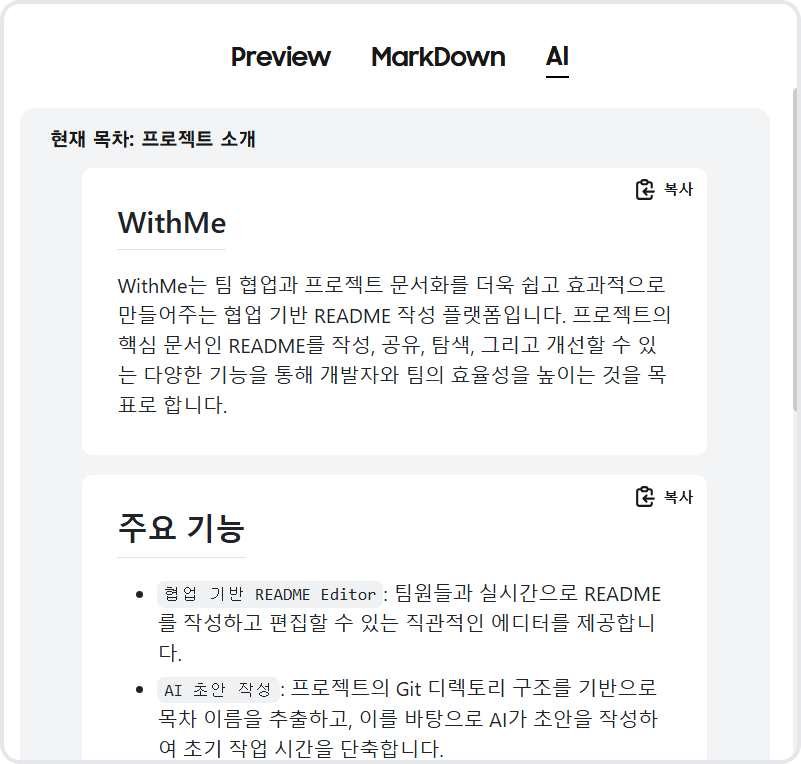
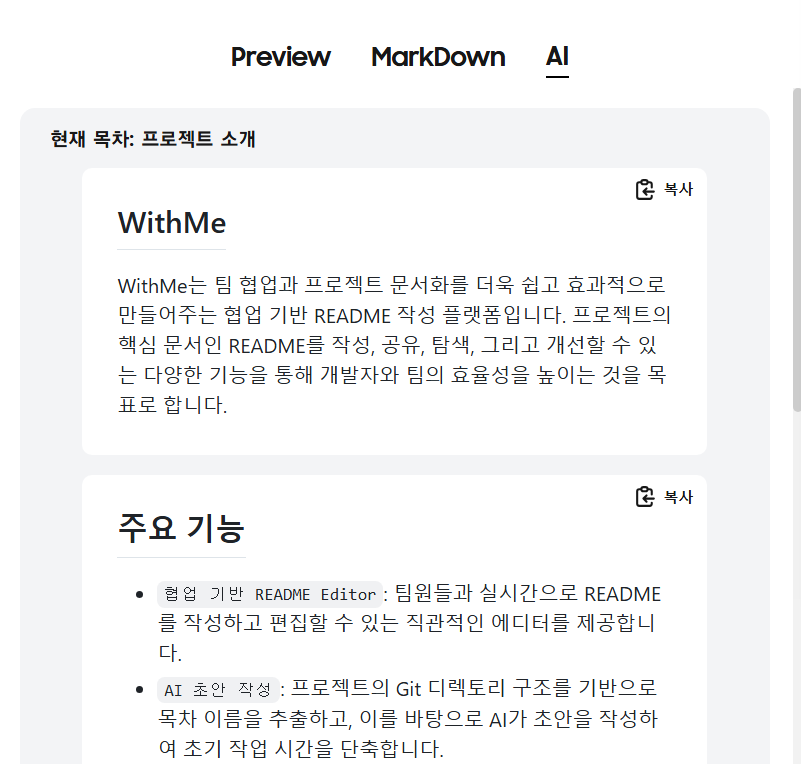
fix: about us image change

Changed region(s): [[0.0, 0.0, 1.0, 1.0], [0.0936, 0.9935, 0.9051, 1.0], [0.9363, 0.9935, 0.9988, 1.0]]

diff --git a/frontend/src/app/(beforeLogin)/aboutus/page.tsx b/frontend/src/app/(beforeLogin)/aboutus/page.tsx
@@ -18,8 +18,8 @@ export default function AboutUs() {
         </div>
         <div className="">
           <Image
-            className="image border-4 border-gray-200 rounded-xl"
-            src="/edit1.png"
+            className="image border-2 border-gray-200 rounded-xl"
+            src="/edit.png"
             alt="Editor full view"
             width={800}
             height={600}
@@ -72,7 +72,7 @@ export default function AboutUs() {
         </div>
         <div>
           <Image
-            className="image border-4 border-gray-200 rounded-xl"
+            className="image border-2 border-gray-200 rounded-xl"
             src="/AIDraft.png"
             alt="AIDraft"
             width={800}
@@ -126,7 +126,7 @@ export default function AboutUs() {
         </div>
         <div className="">
           <Image
-            className="image border-4 border-gray-200 rounded-xl"
+            className="image border-2 border-gray-200 rounded-xl"
             src="/capture1.PNG"
             alt="capture of the Editor image"
             width={800}
